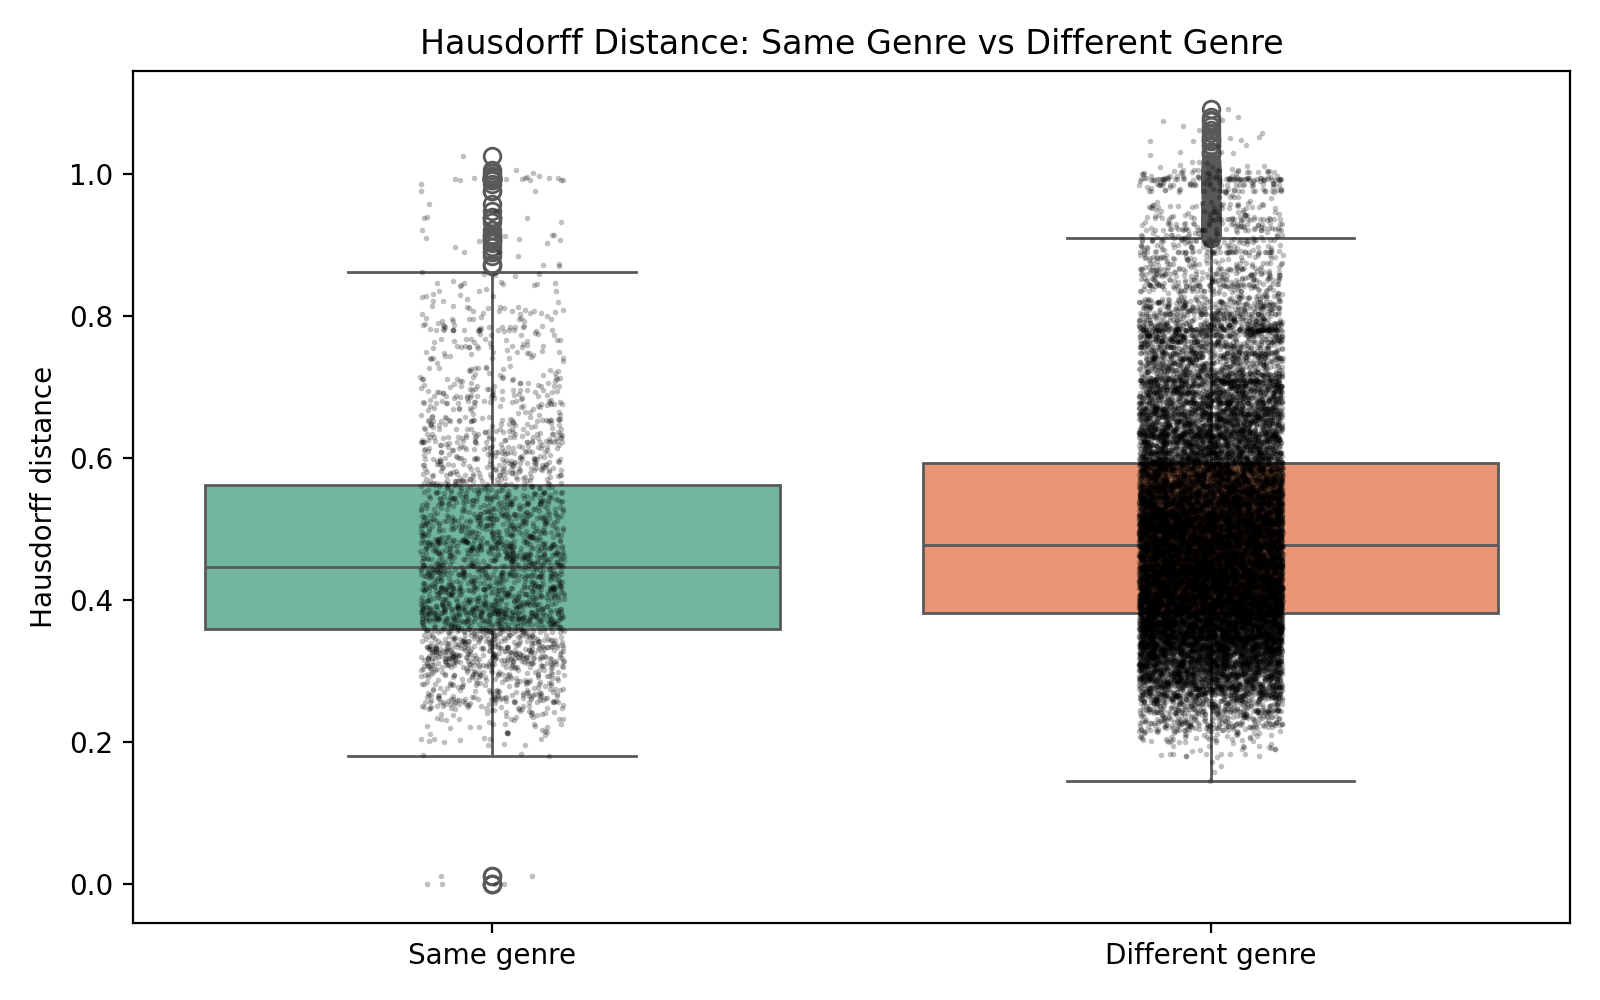
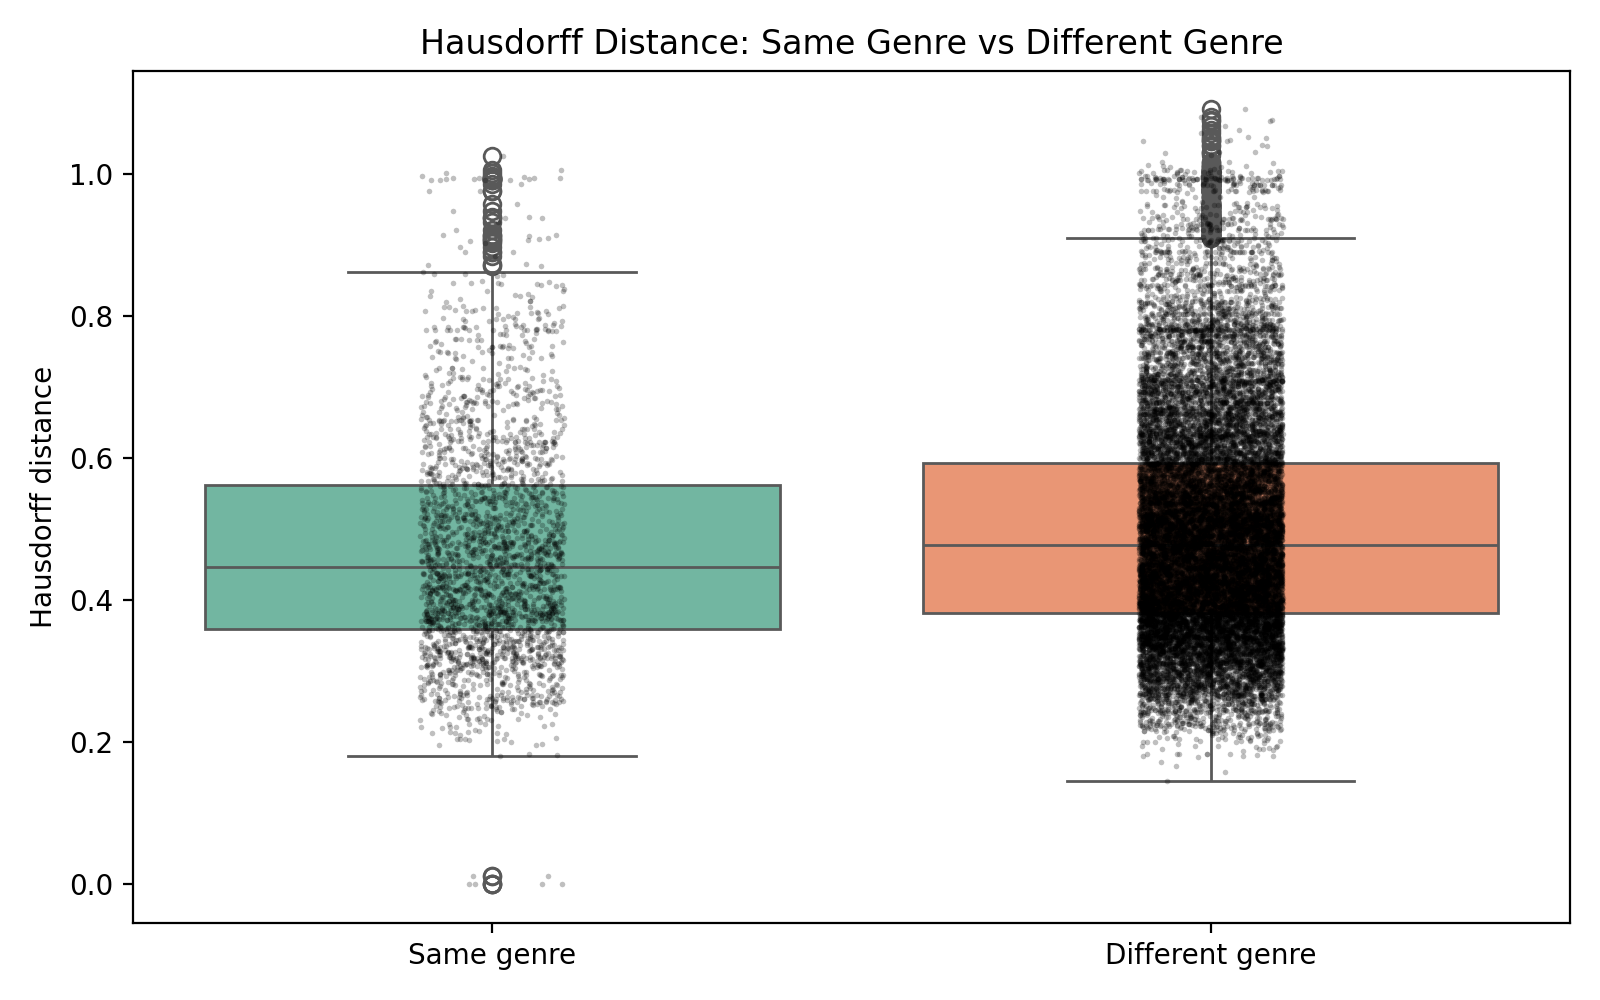
增加了采样点消融，但还是300最好

diff --git a/src/sampling_points_ablation.py b/src/sampling_points_ablation.py
@@ -1,0 +1,195 @@
+from __future__ import annotations
+
+import time
+from pathlib import Path
+
+import matplotlib.pyplot as plt
+import numpy as np
+import pandas as pd
+from scipy.spatial import cKDTree
+
+
+PROJECT_ROOT = Path(__file__).resolve().parents[1]
+PROCESSED_DIR = PROJECT_ROOT / "data" / "processed"
+FIGURES_DIR = PROJECT_ROOT / "figures"
+
+SUBSET_SIZE = 25
+POINTS_CSV = PROCESSED_DIR / f"bodhidharma_subset_{SUBSET_SIZE}_melody_points.csv"
+SUMMARY_CSV = PROCESSED_DIR / "sampling_points_ablation_summary.csv"
+PREDICTIONS_CSV = PROCESSED_DIR / "sampling_points_ablation_predictions.csv"
+ACCURACY_PNG = FIGURES_DIR / "sampling_points_ablation_accuracy.png"
+DISTANCE_PNG = FIGURES_DIR / "sampling_points_ablation_distances.png"
+
+SAMPLE_SIZES = [100, 200, 300, 500, 800, 1000]
+CURVE_COLUMNS = ["time_norm", "pitch_norm", "velocity_norm"]
+
+
+def evenly_sample(group: pd.DataFrame, max_points: int) -> pd.DataFrame:
+    group = group.sort_values("point_index").reset_index(drop=True)
+    if len(group) <= max_points:
+        sampled = group.copy()
+    else:
+        indices = np.linspace(0, len(group) - 1, max_points).round().astype(int)
+        sampled = group.iloc[indices].copy()
+    sampled["sample_index"] = np.arange(1, len(sampled) + 1)
+    return sampled
+
+
+def directed_hausdorff_kdtree(a: np.ndarray, b: np.ndarray) -> float:
+    tree = cKDTree(b)
+    distances, _ = tree.query(a, k=1, workers=-1)
+    return float(distances.max())
+
+
+def hausdorff_kdtree(a: np.ndarray, b: np.ndarray) -> float:
+    return max(directed_hausdorff_kdtree(a, b), directed_hausdorff_kdtree(b, a))
+
+
+def build_sampled_curves(points: pd.DataFrame, sample_size: int) -> tuple[pd.DataFrame, dict[int, np.ndarray]]:
+    keys = ["song_id", "genre", "file_name", "relative_path"]
+    sampled_groups = []
+    for _, group in points.groupby(keys, sort=False):
+        sampled_groups.append(evenly_sample(group, sample_size))
+    sampled = pd.concat(sampled_groups, ignore_index=True)
+
+    songs = (
+        sampled[keys]
+        .drop_duplicates()
+        .sort_values(["genre", "file_name"])
+        .reset_index(drop=True)
+    )
+
+    curves: dict[int, np.ndarray] = {}
+    for song_id, group in sampled.sort_values(["song_id", "sample_index"]).groupby("song_id"):
+        curves[int(song_id)] = group[CURVE_COLUMNS].to_numpy(float)
+
+    return songs, curves
+
+
+def compute_distance_matrix(songs: pd.DataFrame, curves: dict[int, np.ndarray]) -> np.ndarray:
+    song_ids = songs["song_id"].astype(int).to_list()
+    n = len(song_ids)
+    matrix = np.zeros((n, n), dtype=float)
+    for i in range(n):
+        curve_i = curves[song_ids[i]]
+        for j in range(i + 1, n):
+            distance = hausdorff_kdtree(curve_i, curves[song_ids[j]])
+            matrix[i, j] = distance
+            matrix[j, i] = distance
+    return matrix
+
+
+def evaluate_1nn(songs: pd.DataFrame, matrix: np.ndarray, sample_size: int) -> pd.DataFrame:
+    rows = []
+    for i, song in songs.iterrows():
+        distances = matrix[i].copy()
+        distances[i] = np.inf
+        nearest_idx = int(distances.argmin())
+        nearest = songs.iloc[nearest_idx]
+        rows.append(
+            {
+                "sample_size": sample_size,
+                "song_id": int(song["song_id"]),
+                "genre": song["genre"],
+                "file_name": song["file_name"],
+                "nearest_song_id": int(nearest["song_id"]),
+                "nearest_genre": nearest["genre"],
+                "nearest_file_name": nearest["file_name"],
+                "distance": float(distances[nearest_idx]),
+                "correct": song["genre"] == nearest["genre"],
+            }
+        )
+    return pd.DataFrame(rows)
+
+
+def summarize_distances(songs: pd.DataFrame, matrix: np.ndarray, sample_size: int, elapsed_seconds: float) -> dict[str, float]:
+    genres = songs["genre"].to_numpy()
+    upper_i, upper_j = np.triu_indices(len(songs), k=1)
+    distances = matrix[upper_i, upper_j]
+    same_mask = genres[upper_i] == genres[upper_j]
+    same = distances[same_mask]
+    different = distances[~same_mask]
+    return {
+        "sample_size": sample_size,
+        "songs": len(songs),
+        "pairwise_distances": int(len(distances)),
+        "same_genre_mean": float(same.mean()),
+        "same_genre_median": float(np.median(same)),
+        "different_genre_mean": float(different.mean()),
+        "different_genre_median": float(np.median(different)),
+        "mean_gap": float(different.mean() - same.mean()),
+        "median_gap": float(np.median(different) - np.median(same)),
+        "elapsed_seconds": elapsed_seconds,
+    }
+
+
+def plot_results(summary: pd.DataFrame) -> None:
+    FIGURES_DIR.mkdir(parents=True, exist_ok=True)
+
+    plt.figure(figsize=(8, 5))
+    plt.plot(summary["sample_size"], summary["accuracy"], marker="o", linewidth=2)
+    plt.xlabel("Max sampled points per song")
+    plt.ylabel("1-NN accuracy")
+    plt.title("Sampling Points Ablation: 1-NN Accuracy")
+    plt.ylim(0, max(0.5, summary["accuracy"].max() + 0.08))
+    plt.grid(alpha=0.25)
+    plt.tight_layout()
+    plt.savefig(ACCURACY_PNG, dpi=200)
+    plt.close()
+
+    plt.figure(figsize=(8, 5))
+    plt.plot(summary["sample_size"], summary["same_genre_mean"], marker="o", label="Same genre")
+    plt.plot(summary["sample_size"], summary["different_genre_mean"], marker="o", label="Different genre")
+    plt.bar(summary["sample_size"], summary["mean_gap"], alpha=0.22, label="Mean gap")
+    plt.xlabel("Max sampled points per song")
+    plt.ylabel("Hausdorff distance")
+    plt.title("Sampling Points Ablation: Distance Separation")
+    plt.legend()
+    plt.grid(alpha=0.25)
+    plt.tight_layout()
+    plt.savefig(DISTANCE_PNG, dpi=200)
+    plt.close()
+
+
+def main() -> None:
+    points = pd.read_csv(POINTS_CSV)
+    points = points.sort_values(["song_id", "point_index"])
+
+    summary_rows = []
+    prediction_frames = []
+    for sample_size in SAMPLE_SIZES:
+        start = time.perf_counter()
+        songs, curves = build_sampled_curves(points, sample_size)
+        matrix = compute_distance_matrix(songs, curves)
+        elapsed = time.perf_counter() - start
+
+        predictions = evaluate_1nn(songs, matrix, sample_size)
+        summary = summarize_distances(songs, matrix, sample_size, elapsed)
+        summary["accuracy"] = float(predictions["correct"].mean())
+        summary_rows.append(summary)
+        prediction_frames.append(predictions)
+
+        print(
+            f"sample_size={sample_size}: "
+            f"accuracy={summary['accuracy']:.4f}, "
+            f"same_mean={summary['same_genre_mean']:.4f}, "
+            f"diff_mean={summary['different_genre_mean']:.4f}, "
+            f"gap={summary['mean_gap']:.4f}, "
+            f"seconds={elapsed:.1f}"
+        )
+
+    summary_df = pd.DataFrame(summary_rows)
+    predictions_df = pd.concat(prediction_frames, ignore_index=True)
+
+    PROCESSED_DIR.mkdir(parents=True, exist_ok=True)
+    summary_df.to_csv(SUMMARY_CSV, index=False, encoding="utf-8")
+    predictions_df.to_csv(PREDICTIONS_CSV, index=False, encoding="utf-8")
+    plot_results(summary_df)
+
+    print(f"summary: {SUMMARY_CSV}")
+    print(f"predictions: {PREDICTIONS_CSV}")
+    print(f"figures: {ACCURACY_PNG}, {DISTANCE_PNG}")
+
+
+if __name__ == "__main__":
+    main()